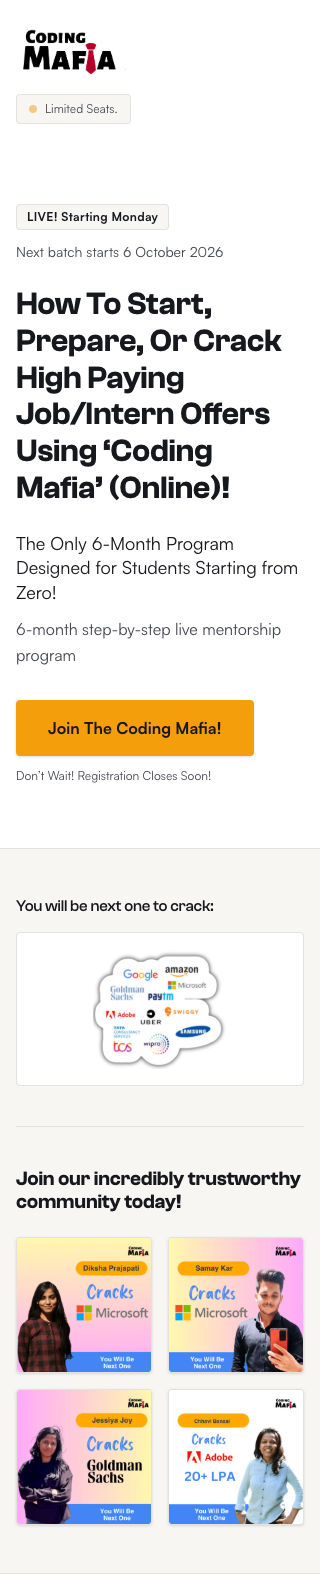
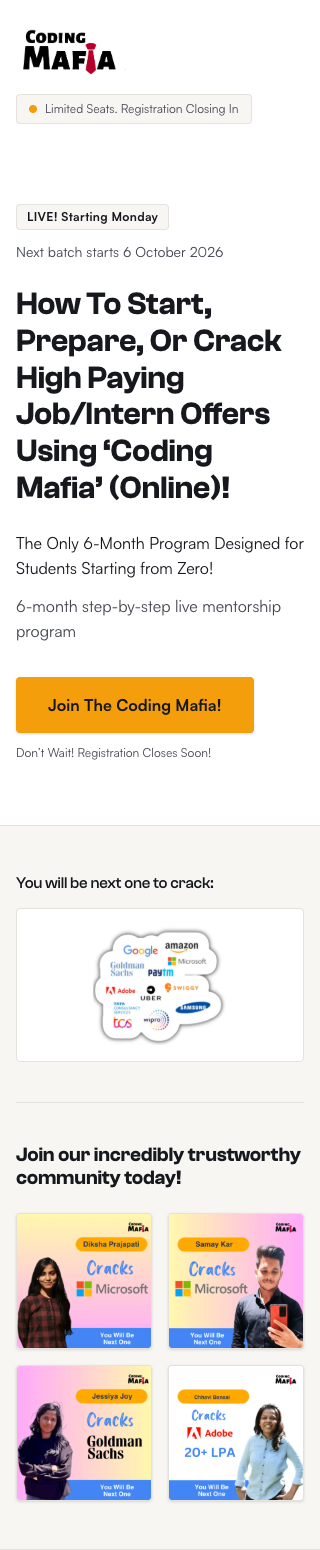
Fix copy-fidelity defect, enforce Satoshi 400, add build-time cohort date assertion and verify-copy gate

diff --git a/scripts/verify-copy.ts b/scripts/verify-copy.ts
@@ -1,0 +1,202 @@
+import fs from "fs";
+import path from "path";
+import http from "http";
+import puppeteer from "puppeteer-core";
+
+const PORT = 3457;
+const OUT_DIR = path.join(process.cwd(), "out");
+const CONTENT_FILE = path.join(process.cwd(), "content.json");
+
+const MIME_TYPES: Record<string, string> = {
+  ".html": "text/html",
+  ".css": "text/css",
+  ".js": "application/javascript",
+  ".json": "application/json",
+  ".webp": "image/webp",
+  ".png": "image/png",
+  ".jpg": "image/jpeg",
+  ".svg": "image/svg+xml",
+  ".woff2": "font/woff2",
+};
+
+function startServer(): Promise<http.Server> {
+  const server = http.createServer((req, res) => {
+    let reqPath = req.url?.split("?")[0] || "/";
+    if (reqPath === "/") reqPath = "/index.html";
+
+    let filePath = path.join(OUT_DIR, reqPath);
+    if (!fs.existsSync(filePath) && fs.existsSync(filePath + ".html")) {
+      filePath = filePath + ".html";
+    }
+
+    if (fs.existsSync(filePath) && fs.statSync(filePath).isFile()) {
+      const ext = path.extname(filePath).toLowerCase();
+      const contentType = MIME_TYPES[ext] || "application/octet-stream";
+      res.writeHead(200, { "Content-Type": contentType });
+      fs.createReadStream(filePath).pipe(res);
+    } else {
+      res.writeHead(404);
+      res.end("Not found");
+    }
+  });
+
+  return new Promise((resolve) => {
+    server.listen(PORT, () => {
+      resolve(server);
+    });
+  });
+}
+
+interface BlockAssertion {
+  index: number;
+  expected: string;
+  rendered: string;
+  passed: boolean;
+}
+
+async function verifyWithBrowser(): Promise<BlockAssertion[]> {
+  const server = await startServer();
+  let browser;
+  try {
+    browser = await puppeteer.launch({
+      headless: true,
+      executablePath: "/Applications/Google Chrome.app/Contents/MacOS/Google Chrome",
+      args: ["--no-sandbox", "--disable-setuid-sandbox"],
+    });
+
+    const page = await browser.newPage();
+    await page.goto(`http://localhost:${PORT}`, { waitUntil: "networkidle0" });
+
+    const rawContent = JSON.parse(fs.readFileSync(CONTENT_FILE, "utf-8"));
+    const blocks = rawContent.blocks;
+
+    const domResults = await page.evaluate(() => {
+      const elements = Array.from(document.querySelectorAll("[data-block]"));
+      return elements.map((el) => {
+        const rawAttr = el.getAttribute("data-block") || "";
+        const indices = rawAttr.split(",").map((s) => parseInt(s.trim(), 10)).filter((n) => !isNaN(n));
+        return {
+          indices,
+          textContent: el.textContent || "",
+        };
+      });
+    });
+
+    const assertions: BlockAssertion[] = [];
+
+    for (const item of domResults) {
+      for (const idx of item.indices) {
+        const expectedBlock = blocks[idx];
+        const expectedText = (expectedBlock && "text" in expectedBlock) ? expectedBlock.text : "";
+        assertions.push({
+          index: idx,
+          expected: expectedText,
+          rendered: item.textContent,
+          passed: item.textContent === expectedText,
+        });
+      }
+    }
+
+    return assertions;
+  } finally {
+    if (browser) await browser.close();
+    server.close();
+  }
+}
+
+function verifyWithStaticHtml(): BlockAssertion[] {
+  const htmlPath = path.join(OUT_DIR, "index.html");
+  if (!fs.existsSync(htmlPath)) {
+    throw new Error("out/index.html not found. Run npm run build first.");
+  }
+  const html = fs.readFileSync(htmlPath, "utf-8");
+  const rawContent = JSON.parse(fs.readFileSync(CONTENT_FILE, "utf-8"));
+  const blocks = rawContent.blocks;
+
+  // Match elements with data-block
+  const regex = /data-block="([^"]+)"[^>]*>([\s\S]*?)<\/[a-z0-9]+>/gi;
+  const matches = [...html.matchAll(regex)];
+
+  function decodeEntities(str: string): string {
+    return str
+      .replace(/&amp;/g, "&")
+      .replace(/&lt;/g, "<")
+      .replace(/&gt;/g, ">")
+      .replace(/&quot;/g, '"')
+      .replace(/&#x27;/g, "'")
+      .replace(/&#39;/g, "'")
+      .replace(/&rsquo;/g, "’")
+      .replace(/&lsquo;/g, "‘");
+  }
+
+  const assertions: BlockAssertion[] = [];
+
+  for (const m of matches) {
+    const rawAttr = m[1];
+    const rawInner = m[2];
+    const stripped = decodeEntities(rawInner.replace(/<[^>]+>/g, ""));
+    const indices = rawAttr.split(",").map((s) => parseInt(s.trim(), 10)).filter((n) => !isNaN(n));
+
+    for (const idx of indices) {
+      const expectedBlock = blocks[idx];
+      const expectedText = (expectedBlock && "text" in expectedBlock) ? expectedBlock.text : "";
+      assertions.push({
+        index: idx,
+        expected: expectedText,
+        rendered: stripped,
+        passed: stripped === expectedText,
+      });
+    }
+  }
+
+  return assertions;
+}
+
+async function run() {
+  console.log("=======================================================");
+  console.log("COPY-FIDELITY VERIFICATION (EXACT STRING EQUALITY)");
+  console.log("=======================================================\n");
+
+  let assertions: BlockAssertion[] = [];
+  try {
+    assertions = await verifyWithBrowser();
+    console.log("Mode: Live Browser DOM evaluation (headless Chrome)");
+  } catch (err: any) {
+    console.log(`Browser verification unavailable (${err.message}). Falling back to static HTML DOM evaluation.`);
+    assertions = verifyWithStaticHtml();
+    console.log("Mode: Static HTML evaluation (out/index.html)");
+  }
+
+  if (assertions.length === 0) {
+    console.error("ERROR: Zero data-block elements found! Copy verification failed.");
+    process.exit(1);
+  }
+
+  let failed = 0;
+  for (const a of assertions) {
+    if (!a.passed) {
+      failed++;
+      console.error(`\n❌ MISMATCH at block ${a.index}:`);
+      console.error(`  Expected: ${JSON.stringify(a.expected)}`);
+      console.error(`  Rendered: ${JSON.stringify(a.rendered)}`);
+    } else {
+      console.log(`✓ Block ${String(a.index).padStart(3, " ")}: ${JSON.stringify(a.rendered)}`);
+    }
+  }
+
+  console.log(`\nTotal verified text blocks: ${assertions.length}`);
+  console.log(`Passed: ${assertions.length - failed}`);
+  console.log(`Failed: ${failed}`);
+
+  if (failed > 0) {
+    console.error("\nCOPY-FIDELITY VERIFICATION: FAILED");
+    process.exit(1);
+  } else {
+    console.log("\nCOPY-FIDELITY VERIFICATION: PASSED (100% exact character equality)");
+  }
+}
+
+run().catch((err) => {
+  console.error("Fatal error during copy verification:", err);
+  process.exit(1);
+});

diff --git a/components/Hero.tsx b/components/Hero.tsx
@@ -15,11 +15,6 @@ export function Hero() {
   const logoMeta = getImageMeta(logoBlock.src);
   const logoSrc = getLocalImagePath(logoBlock.src);
 
-  // Per client decision: suppress orphaned countdown label when showCountdown is false
-  const urgencyHeaderText = COHORT.showCountdown
-    ? urgencyHeaderBlock.text
-    : urgencyHeaderBlock.text.replace(/\s*Registration Closing In\s*$/i, "");
-
   return (
     <header className="w-full bg-[var(--surface)] border-b border-[var(--border)]">
       {/* Top Brand & Announcement Bar */}
@@ -37,9 +32,9 @@ export function Hero() {
               className="w-[110px] md:w-[130px] h-auto"
             />
           </div>
-          <div className="inline-flex items-center gap-2 self-start sm:self-auto py-1.5 px-3 rounded bg-[var(--surface-2)] border border-[var(--border)] text-xs md:text-sm text-[var(--body)] font-medium">
-            <span className="inline-block w-2 h-2 rounded-full bg-[var(--accent)] animate-pulse" aria-hidden="true" />
-            <span>{urgencyHeaderText}</span>
+          <div className="inline-flex items-center gap-2 self-start sm:self-auto py-1.5 px-3 rounded bg-[var(--surface-2)] border border-[var(--border)] text-xs md:text-sm text-[var(--body)] font-normal">
+            <span className="inline-block w-2 h-2 rounded-full bg-[var(--accent)]" aria-hidden="true" />
+            <span data-block={SECTION_MAP.hero.urgencyHeader}>{urgencyHeaderBlock.text}</span>
           </div>
         </div>
       </div>
@@ -49,22 +44,34 @@ export function Hero() {
         <div className="max-w-[680px] text-left">
           {/* Live Status & Cohort Start Date */}
           <div className="flex flex-wrap items-center gap-3 mb-6">
-            <span className="inline-flex items-center px-2.5 py-1 rounded text-xs md:text-sm font-semibold tracking-wide bg-[var(--surface-2)] text-[var(--ink)] border border-[var(--border)]">
+            <span
+              data-block={SECTION_MAP.hero.liveBadge}
+              className="inline-flex items-center px-2.5 py-1 rounded text-xs md:text-sm font-semibold tracking-wide bg-[var(--surface-2)] text-[var(--ink)] border border-[var(--border)]"
+            >
               {liveBadgeBlock.text}
             </span>
             <CohortDate />
           </div>
 
           {/* Single H1 on the entire page */}
-          <h1 className="text-[32px] md:text-[48px] font-semibold text-[var(--ink)] leading-[1.15] tracking-tight mb-6">
+          <h1
+            data-block={SECTION_MAP.hero.h1}
+            className="text-[32px] md:text-[48px] font-semibold text-[var(--ink)] leading-[1.15] tracking-tight mb-6"
+          >
             {h1Block.text}
           </h1>
 
           {/* Subheading & Value Proposition */}
-          <p className="text-lg md:text-xl font-medium text-[var(--ink)] mb-3 leading-snug">
+          <p
+            data-block={SECTION_MAP.hero.subheads[0]}
+            className="text-base md:text-[17px] font-normal text-[var(--ink)] mb-3 leading-[1.6]"
+          >
             {subhead1Block.text}
           </p>
-          <p className="text-base md:text-lg text-[var(--body)] leading-[1.6] mb-8">
+          <p
+            data-block={SECTION_MAP.hero.subheads[1]}
+            className="text-base md:text-[17px] font-normal text-[var(--body)] leading-[1.6] mb-8"
+          >
             {subhead2Block.text}
           </p>
 
@@ -72,11 +79,15 @@ export function Hero() {
           <div className="flex flex-col items-start gap-3">
             <a
               href="#lead-form"
+              data-block={SECTION_MAP.hero.ctas.join(",")}
               className="inline-flex items-center justify-center min-h-[44px] min-w-[44px] px-8 py-4 rounded bg-[var(--accent)] hover:bg-[var(--accent-hover)] text-[var(--ink)] font-semibold text-base md:text-lg transition-colors focus-visible:ring-2 focus-visible:ring-offset-2 focus-visible:ring-[var(--accent)] focus-visible:outline-none shadow-sm cursor-pointer"
             >
               {ctaBlock.text}
             </a>
-            <p className="text-xs md:text-sm text-[var(--body)] font-medium">
+            <p
+              data-block={SECTION_MAP.hero.urgencyNotice}
+              className="text-xs md:text-sm text-[var(--body)] font-normal"
+            >
               {urgencyNoticeBlock.text}
             </p>
           </div>

diff --git a/scripts/test-phase2.ts b/scripts/test-phase2.ts
@@ -123,10 +123,24 @@ async function runTests() {
   console.log(`  font-family: ${fontChecks.h1.fontFamily}`);
   console.log(`  font-weight: ${fontChecks.h1.fontWeight}`);
   console.log(`  font-size:   ${fontChecks.h1.fontSize}`);
-  console.log(`Computed style for <p>:`);
+  console.log(`Computed style for <p> (desktop):`);
   console.log(`  font-family: ${fontChecks.p.fontFamily}`);
   console.log(`  font-weight: ${fontChecks.p.fontWeight}`);
   console.log(`  font-size:   ${fontChecks.p.fontSize}`);
+
+  // Intrinsic Image Dimensions Check (Block 1)
+  const imgBlock1 = await page.$eval('img[src*="T8nPPpx"]', (el) => ({
+    width: el.getAttribute("width"),
+    height: el.getAttribute("height"),
+    naturalWidth: (el as HTMLImageElement).naturalWidth,
+    naturalHeight: (el as HTMLImageElement).naturalHeight,
+    loading: el.getAttribute("loading"),
+  }));
+  console.log(`\nBlock 1 <img> attributes check (manifest intrinsic):`);
+  console.log(`  width:        ${imgBlock1.width} (manifest: 501)`);
+  console.log(`  height:       ${imgBlock1.height} (manifest: 446)`);
+  console.log(`  loading:      ${imgBlock1.loading} (policy: eager)`);
+
 
   // 2. Network leaks verification
   console.log("\n=======================================================");
@@ -170,6 +184,19 @@ async function runTests() {
           : "PASSED (No horizontal scroll)") +
         ` | Screenshot: ${shotPath}`
     );
+
+    if (width === 375) {
+      const mobileStyles = await page.evaluate(() => {
+        const h1 = document.querySelector("h1");
+        const p = document.querySelector("p");
+        return {
+          h1Size: h1 ? window.getComputedStyle(h1).fontSize : "",
+          pSize: p ? window.getComputedStyle(p).fontSize : "",
+          pWeight: p ? window.getComputedStyle(p).fontWeight : "",
+        };
+      });
+      console.log(`  -> Mobile (375px) typography: <h1> fontSize=${mobileStyles.h1Size} (spec: 32px), <p> fontSize=${mobileStyles.pSize} (spec: 16px), <p> fontWeight=${mobileStyles.pWeight} (spec: 400)`);
+    }
   }
 
   // 4. Keyboard traversal check

diff --git a/components/TrustBar.tsx b/components/TrustBar.tsx
@@ -16,7 +16,10 @@ export function TrustBar() {
       <div className="max-w-[1120px] mx-auto px-4 sm:px-6 lg:px-8">
         {/* Sub-band 1: Company Logos Placement Strip (Scaler pattern) */}
         <div className="text-left pb-10 border-b border-[var(--border)]">
-          <h2 className="text-base md:text-lg font-medium text-[var(--ink)] mb-4">
+          <h2
+            data-block={SECTION_MAP.trustBar.logoStripHeading}
+            className="text-base md:text-lg font-medium text-[var(--ink)] mb-4"
+          >
             {logoHeadingBlock.text}
           </h2>
 
@@ -41,7 +44,10 @@ export function TrustBar() {
 
         {/* Sub-band 2: Community Proof */}
         <div className="text-left pt-10">
-          <h2 className="text-xl md:text-2xl font-semibold text-[var(--ink)] mb-6 leading-tight">
+          <h2
+            data-block={SECTION_MAP.trustBar.communityHeading}
+            className="text-xl md:text-2xl font-semibold text-[var(--ink)] mb-6 leading-tight"
+          >
             {communityHeadingBlock.text}
           </h2>
 

diff --git a/lib/cohort.ts b/lib/cohort.ts
@@ -4,3 +4,17 @@ export const COHORT = {
   batchLabelPrefix: "Next batch starts",
   countdownLabel: "Batch starts in",
 };
+
+// Build-time assertion: throw if startDate is earlier than the build date
+const today = new Date();
+today.setHours(0, 0, 0, 0);
+const cohortDate = new Date(COHORT.startDate);
+if (isNaN(cohortDate.getTime())) {
+  throw new Error(`[COHORT CONFIG DEFECT] Invalid date format for COHORT.startDate: "${COHORT.startDate}"`);
+}
+if (cohortDate < today) {
+  throw new Error(
+    `[COHORT CONFIG DEFECT] COHORT.startDate ("${COHORT.startDate}") is earlier than build date ("${today.toISOString().slice(0, 10)}"). A stale cohort date cannot be deployed.`
+  );
+}
+
